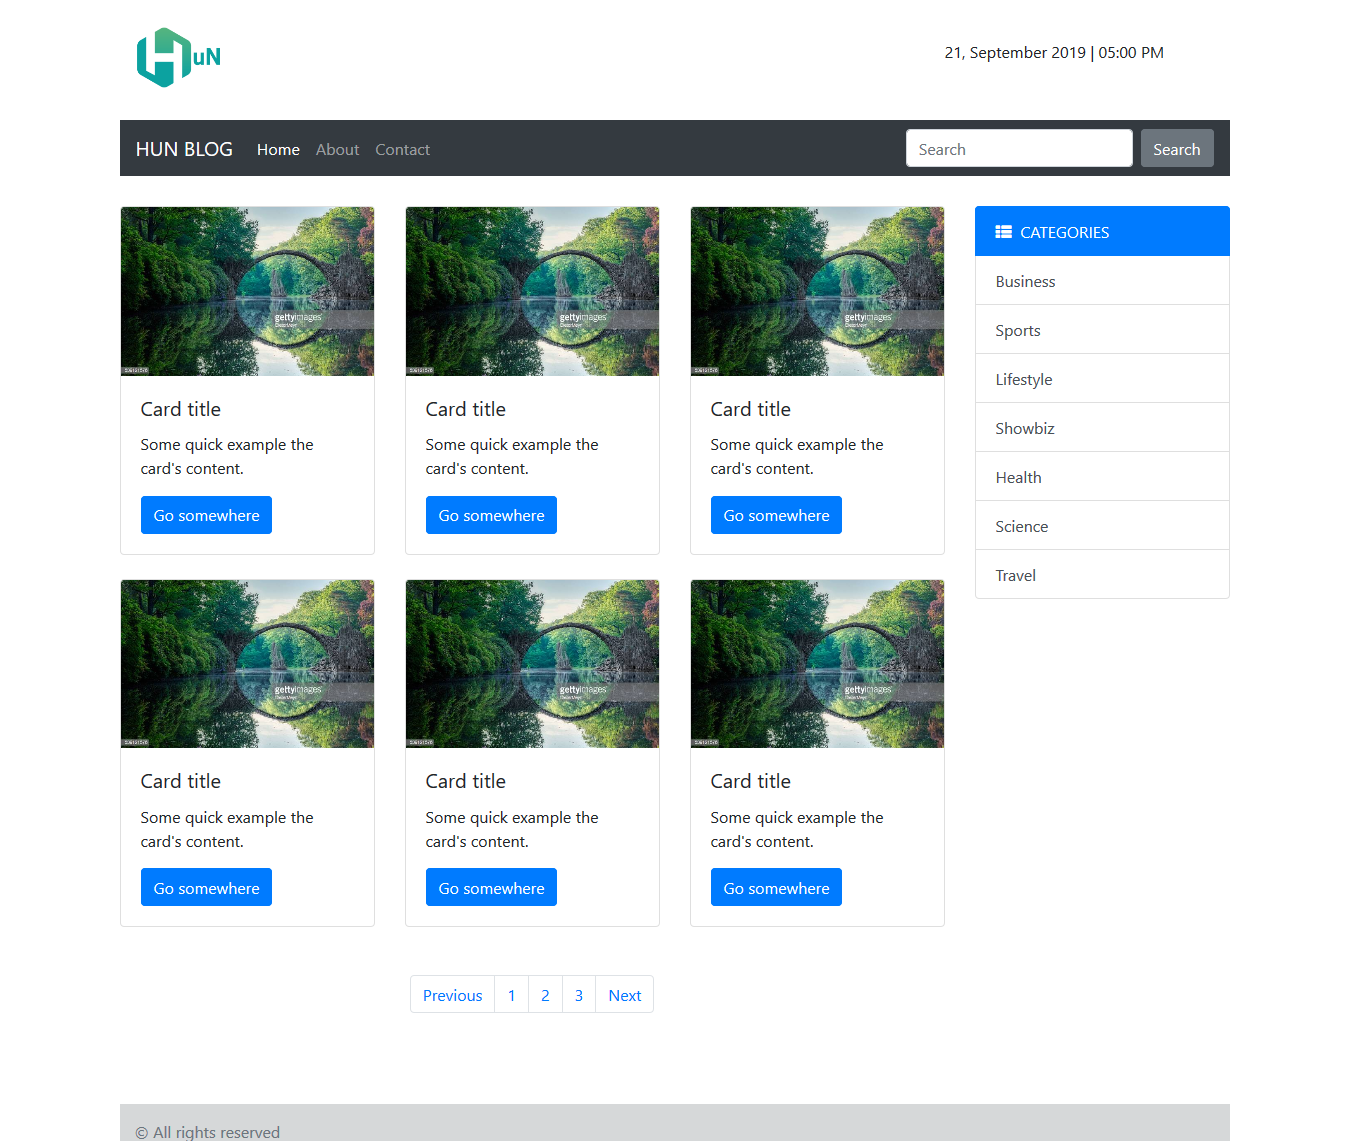
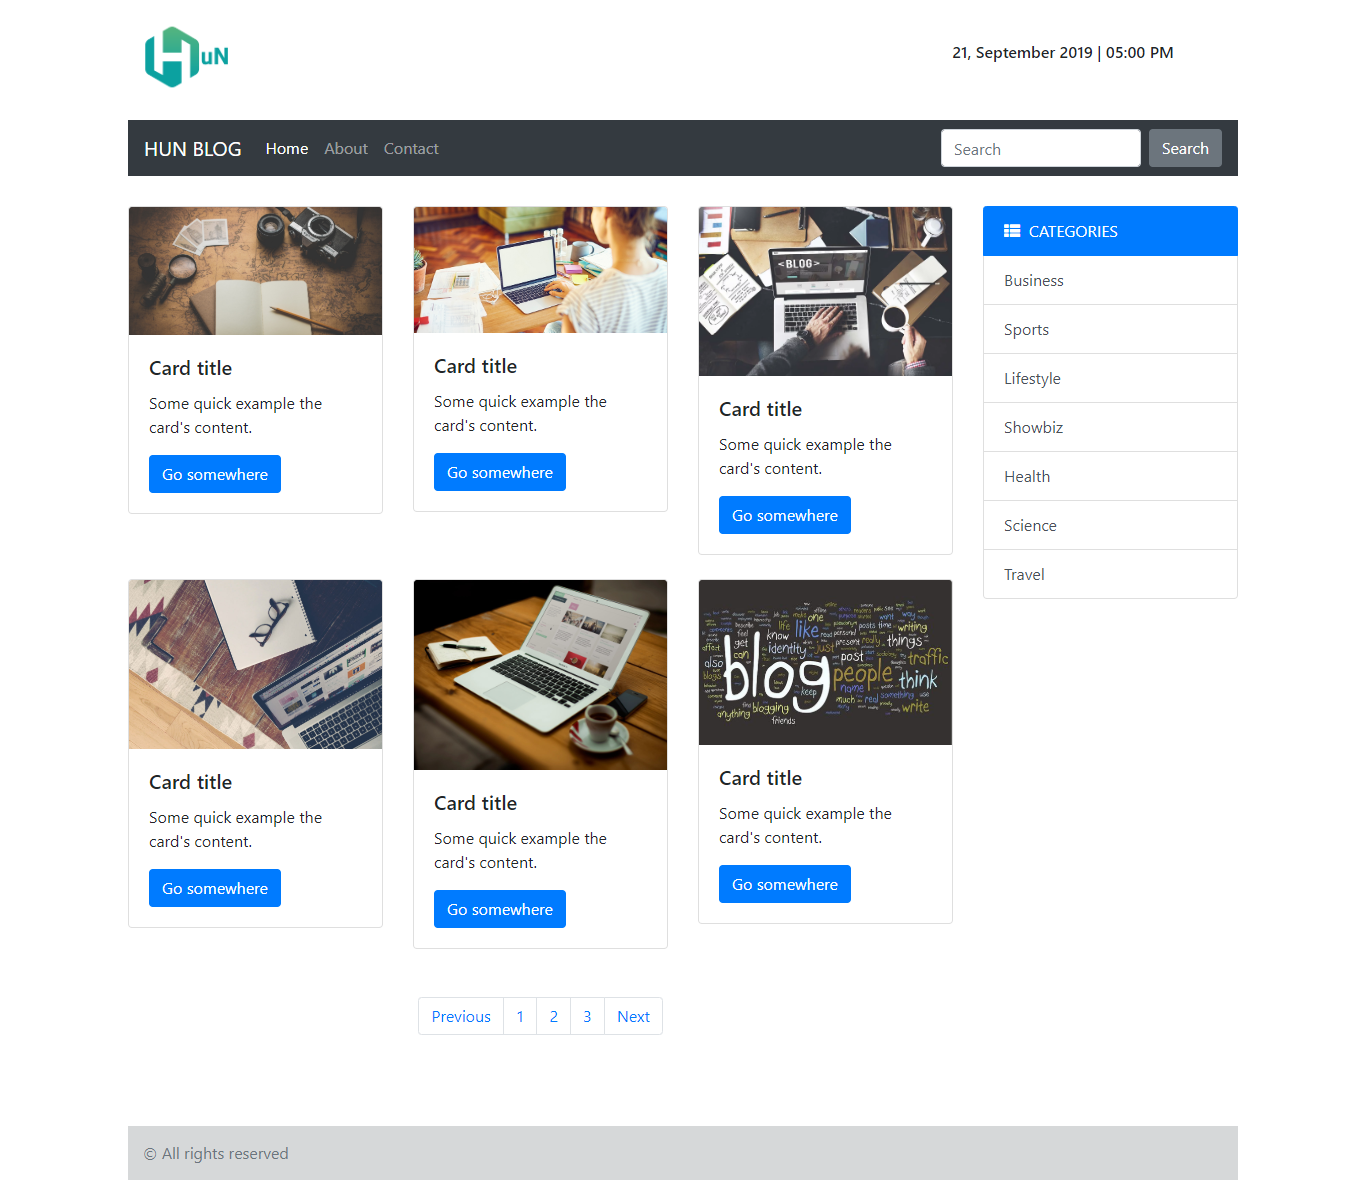
update

diff --git a/index.html b/index.html
@@ -78,7 +78,7 @@
                     <div class="row">
                         <div class="col-md-4 mb-4">
                             <div class="card">
-                                <img src="https://media.gettyimages.com/photos/arch-bridge-in-kromlau-picture-id539121576?s=612x612"
+                                <img src="https://frettboard.com/wp-content/uploads/2017/12/Travel-Blog.jpg"
                                      class="card-img-top" alt="...">
                                 <div class="card-body">
                                     <h5 class="card-title">Card title</h5>
@@ -89,7 +89,7 @@
                         </div>
                         <div class="col-md-4 mb-4">
                             <div class="card">
-                                <img src="https://media.gettyimages.com/photos/arch-bridge-in-kromlau-picture-id539121576?s=612x612"
+                                <img src="https://blog.edx.org/wp-content/uploads/2017/06/berkeley.jpg"
                                      class="card-img-top" alt="...">
                                 <div class="card-body">
                                     <h5 class="card-title">Card title</h5>
@@ -100,7 +100,7 @@
                         </div>
                         <div class="col-md-4 mb-4">
                             <div class="card">
-                                <img src="https://media.gettyimages.com/photos/arch-bridge-in-kromlau-picture-id539121576?s=612x612"
+                                <img src="https://www.impactbnd.com/hubfs/blog-image-uploads/9_Blog_Layout_Best_Practices_From_2017.jpg"
                                      class="card-img-top" alt="...">
                                 <div class="card-body">
                                     <h5 class="card-title">Card title</h5>
@@ -111,7 +111,7 @@
                         </div>
                         <div class="col-md-4 mb-4">
                             <div class="card">
-                                <img src="https://media.gettyimages.com/photos/arch-bridge-in-kromlau-picture-id539121576?s=612x612"
+                                <img src="https://www.theminimalists.com/wp-content/uploads/2019/01/how-to-start-a-blog-in-2020-1.jpg"
                                      class="card-img-top" alt="...">
                                 <div class="card-body">
                                     <h5 class="card-title">Card title</h5>
@@ -122,7 +122,7 @@
                         </div>
                         <div class="col-md-4 mb-4">
                             <div class="card">
-                                <img src="https://media.gettyimages.com/photos/arch-bridge-in-kromlau-picture-id539121576?s=612x612"
+                                <img src="https://thepbsblog.files.wordpress.com/2015/12/blog-laptop.jpg"
                                      class="card-img-top" alt="...">
                                 <div class="card-body">
                                     <h5 class="card-title">Card title</h5>
@@ -133,7 +133,7 @@
                         </div>
                         <div class="col-md-4 mb-4">
                             <div class="card">
-                                <img src="https://media.gettyimages.com/photos/arch-bridge-in-kromlau-picture-id539121576?s=612x612"
+                                <img src="https://atol-solutions.com/images/easyblog_articles/204/blogging_image.jpg"
                                      class="card-img-top" alt="...">
                                 <div class="card-body">
                                     <h5 class="card-title">Card title</h5>
